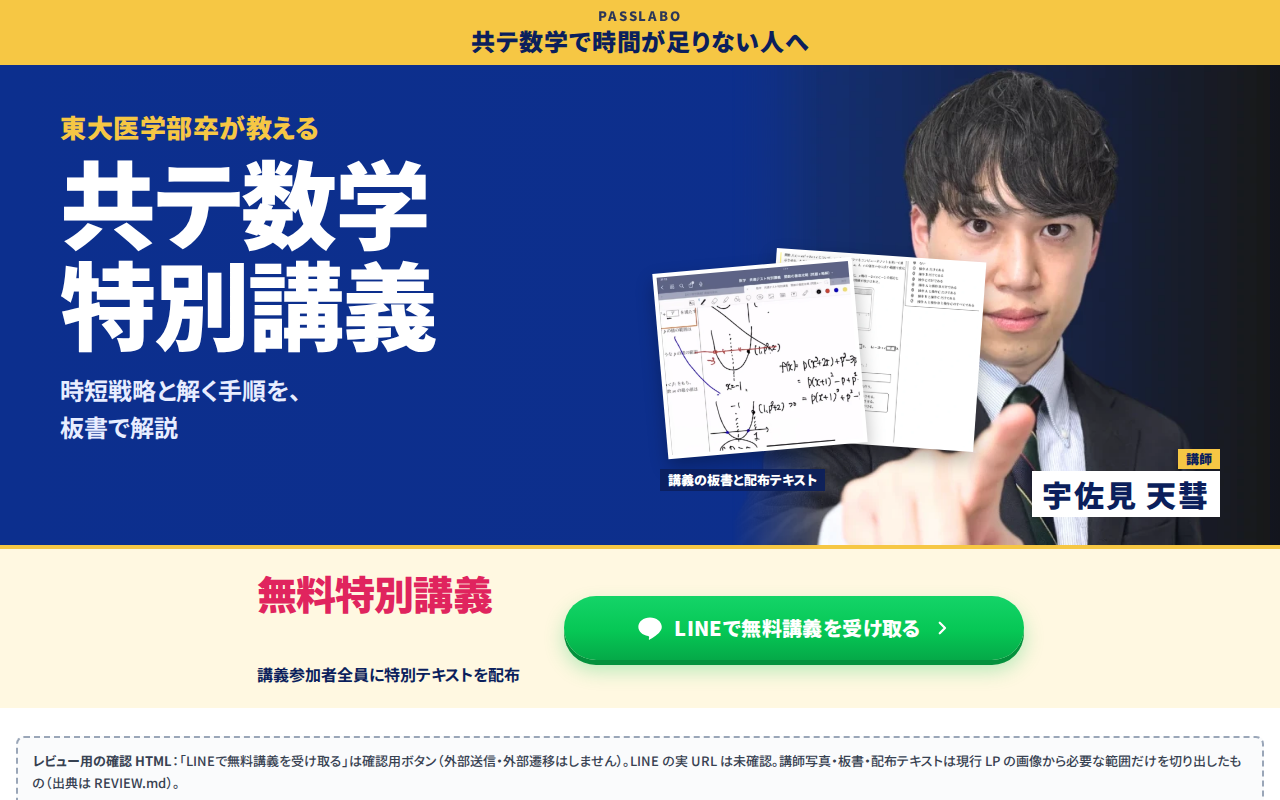
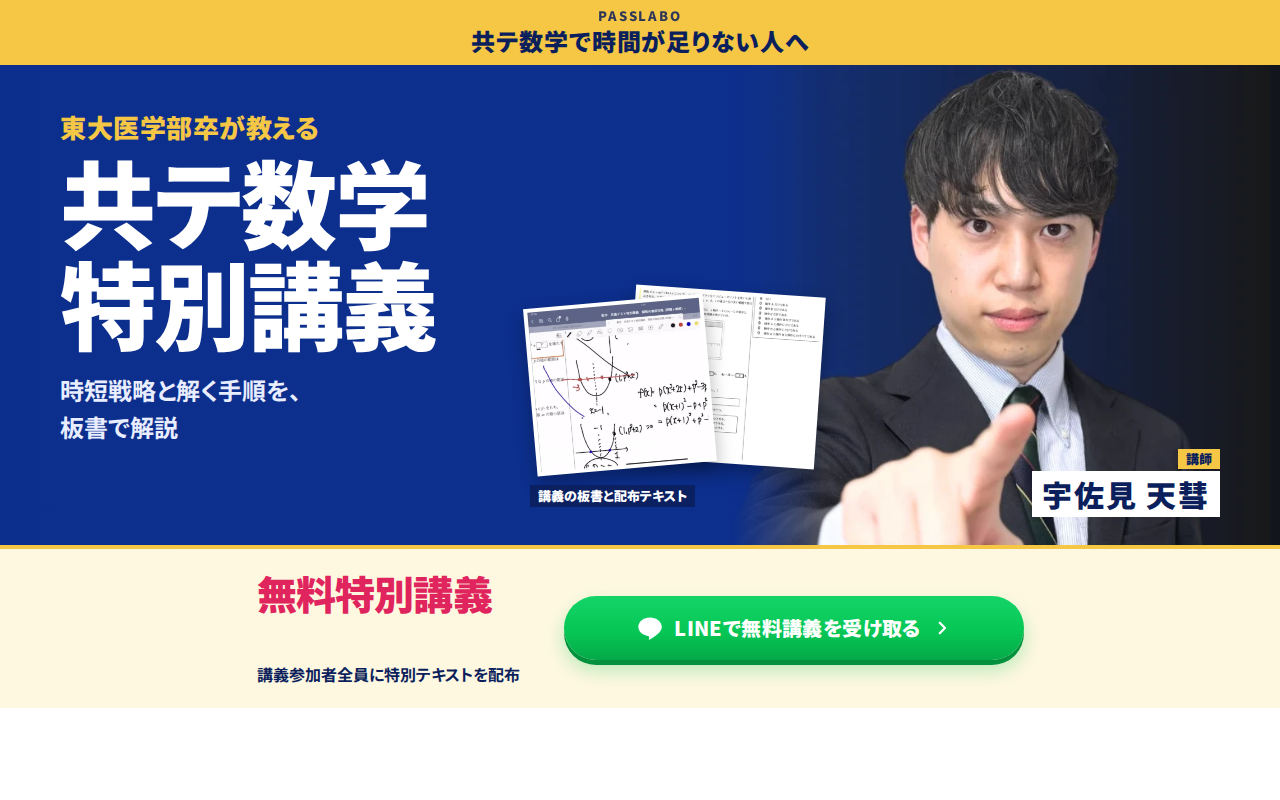
passlabo-fv-variants: PC だけ教材と講師の顔の重なりを解消、選定用画像は FV 本体だけ
- PC（min-width:900px）: 案A の教材を左下へ、案B の教材をコピーと人物の間へ寄せて約12%縮小、案B のコピー群を約70px上へ。両目・鼻・口に重ねない。SP の CSS は変更なし（SP 400 の FV は前版と同一の描画）
- 撮影: 400px・1280px・比較画像から確認用注記の枠を隠す（HTML 内の注記は残す）
- REVIEW.md: 学ぶことの文言を『承認済み訴求をもとに作成した初稿コピー（現行本文との照合が必要）』に訂正

Claude-Session: https://claude.ai/code/session_01Jm6YN5J6YHJuwEcwhF251t

Changed region(s): [[0.4062, 0.3125, 0.7812, 0.6562], [0.0312, 0.9375, 0.9688, 1.0]]

diff --git a/passlabo-fv-variants/out/passlabo-fv-b.html b/passlabo-fv-variants/out/passlabo-fv-b.html
@@ -106,12 +106,12 @@ img{display:block;max-width:100%}
 .b-gift{margin:2px 0 10px;font-size:17px;font-weight:700;color:var(--gold)}
 @media (min-width:900px){
 .b-top{padding:12px max(24px,calc((100% - 1160px)/2))}
-.b-hero{display:grid;grid-template-columns:minmax(0,1fr) minmax(0,1.05fr);grid-template-areas:"pains stage" "arrow stage" "change stage";grid-template-rows:1fr auto 1fr;column-gap:40px;padding:40px max(24px,calc((100% - 1160px)/2)) 0;align-content:center}
-.b-pains{grid-area:pains;justify-content:flex-start;align-self:end;align-items:flex-start}.b-pains li{font-size:24px}
+.b-hero{display:grid;grid-template-columns:minmax(0,1fr) minmax(0,1.05fr);grid-template-areas:"pains stage" "arrow stage" "change stage";grid-template-rows:auto auto 1fr;column-gap:40px;padding:40px max(24px,calc((100% - 1160px)/2)) 0;align-content:center}
+.b-pains{grid-area:pains;justify-content:flex-start;align-self:start;align-items:flex-start;margin-top:72px}.b-pains li{font-size:24px}
 .b-arrow{grid-area:arrow;margin:16px 0 12px 80px}
 .b-change{grid-area:change;text-align:left;font-size:60px;align-self:start}
 .b-stage{grid-area:stage;height:420px;margin:0}
-.b-sheet{width:270px;height:330px;top:20px}.b-board{left:230px;top:90px;width:200px;height:200px}.b-photo{width:340px;height:420px}
+.b-sheet{width:229px;height:264px;top:16px}.b-board{left:90px;top:250px;width:167px;height:141px}.b-photo{width:340px;height:420px}
 .b-offer{display:grid;grid-template-columns:auto minmax(0,460px);justify-content:center;align-items:center;column-gap:44px;padding:22px;text-align:left}
 .b-gift{grid-column:1;margin:0}.b-offer .cta{grid-column:2;grid-row:1/3}
 }</style></head>

diff --git a/passlabo-fv-variants/out/passlabo-fv-a.html b/passlabo-fv-variants/out/passlabo-fv-a.html
@@ -117,8 +117,8 @@ img{display:block;max-width:100%}
 .a-copy{left:max(24px,calc((100% - 1160px)/2));top:44px;width:560px}
 .a-cred{font-size:26px}.a-title{font-size:96px}.a-title span{display:inline-block;margin-right:.25em}.a-sub{font-size:24px;margin-top:18px}
 .a-photo{right:max(0px,calc((100% - 1260px)/2));-webkit-mask-image:linear-gradient(90deg,transparent 0,#000 90px);mask-image:linear-gradient(90deg,transparent 0,#000 90px)}
-.a-mats{left:calc(max(24px,(100% - 1160px)/2) + 600px);bottom:60px;width:330px;height:230px}
-.a-sheet{left:110px;width:210px;height:190px}.a-board{width:200px;height:186px}
+.a-mats{left:calc(max(24px,(100% - 1160px)/2) + 470px);bottom:44px;width:300px;height:210px}
+.a-sheet{left:100px;width:190px;height:172px}.a-board{width:180px;height:168px}
 .a-name{right:max(24px,calc((100% - 1160px)/2));bottom:28px}.a-name .nm{font-size:30px}
 .a-offer{display:grid;grid-template-columns:auto minmax(0,460px);justify-content:center;align-items:center;gap:44px;padding:22px}
 .a-main{grid-column:1;text-align:left}.a-subgift{grid-column:1;margin:4px 0 0;text-align:left}.a-offer .cta{grid-column:2;grid-row:1/3}

diff --git a/passlabo-fv-variants/REVIEW.md b/passlabo-fv-variants/REVIEW.md
@@ -6,6 +6,7 @@
 - **案A（濃紺の1枚の広告）**: PASSLABO と対象の帯「共テ数学で時間が足りない人へ」→ 東大医学部卒が教える → 商品名「共テ数学／特別講義」（48px）→ 時短戦略と解く手順を、板書で解説（16px）→ 右の講師本人と名札 → 左下の板書・配布テキスト → 主文「無料特別講義」（40px）と従属の「講義参加者全員に特別テキストを配布」→ 緑の CTA。商品名と講師が主役。
 - **案B（白地で悩みから入る縦の流れ）**: ブランドと講義名 → 悩み「×時間が足りない」「×点数が伸びない」→ 学ぶこと「時間内に解ききる／考え方と手順を学ぶ」（40px）→ 配布テキストと板書＋講師本人 → 無料「共テ数学 特別講義」＋特別テキスト配布 → 緑の CTA。悩みと変化が主役。
 - 400px 幅で CTA の下端: 案A 595px・案B 562px（目安 620px 以内）。最小の文字 13px。横スクロールなし。
+- PC 1280px: 教材が講師の顔（両目・鼻・口）に重ならない位置・大きさに調整（PC のメディアクエリだけ。SP は変更なし）。
 
 ## 文言の根拠（架空の実績・受講者数・点数保証・未検証の数値は入れていない）
 | FV の文言 | 根拠 |
@@ -14,7 +15,7 @@
 | 共テ数学で時間が足りない人へ | 現行 FV の対象 |
 | 東大医学部卒が教える（案A）／講師 宇佐見 天彗・東大医学部卒（案B） | 現行 FV・講師プロフィール。各案で1回だけ表示 |
 | 時間が足りない・点数が伸びない | 承認済み仕様の悩み（「点数が伸びない」は現行 FV には無い） |
-| 時短戦略と解く手順を、板書で解説（案A）／時間内に解ききる考え方と手順を学ぶ（案B） | ユーザー指定の文言。講義が「共テ数学で時間が足りない人へ」向けで、板書で問題を解説していること（現行 FV・教材画像）の範囲。**時間の数値は出さない**（教材の【スピード勝負】（3分〜5分）は1問の目標時間なので、関数全体や講義の成果に一般化しない）。講義本文の確認後に再確認 |
+| 時短戦略と解く手順を、板書で解説（案A）／時間内に解ききる考え方と手順を学ぶ（案B） | 承認済み訴求をもとに作成した初稿コピー（今回のレビューで出たコピー案を反映。現行の講義本文との照合が必要）。講義が「共テ数学で時間が足りない人へ」向けで、板書で問題を解説していること（現行 FV・教材画像）の範囲。**時間の数値は出さない**（教材の【スピード勝負】（3分〜5分）は1問の目標時間なので、関数全体や講義の成果に一般化しない）。講義本文の確認後に再確認 |
 | 講義参加者全員に特別テキストを配布 | 現行 LP の教材の見出し |
 | 無料特別講義／無料 | 承認済み仕様（無料特別講義） |
 - 現行掲載の 38万人・1億回・全国50校などの数値は、最新性が未検証のため入れていない。顔を置けば申込が増えるとは書いていない。
